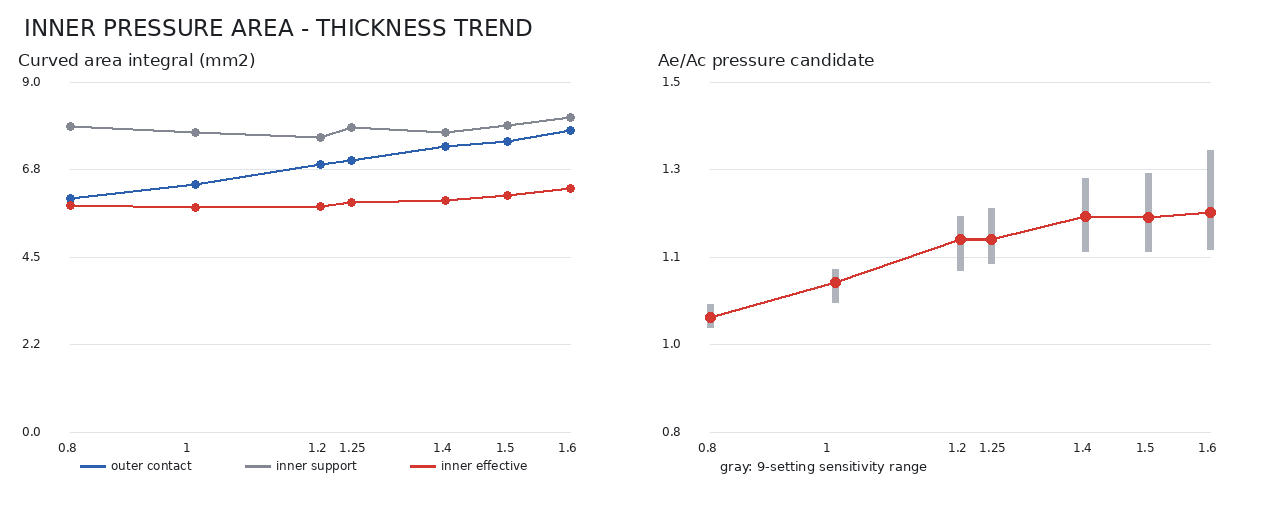
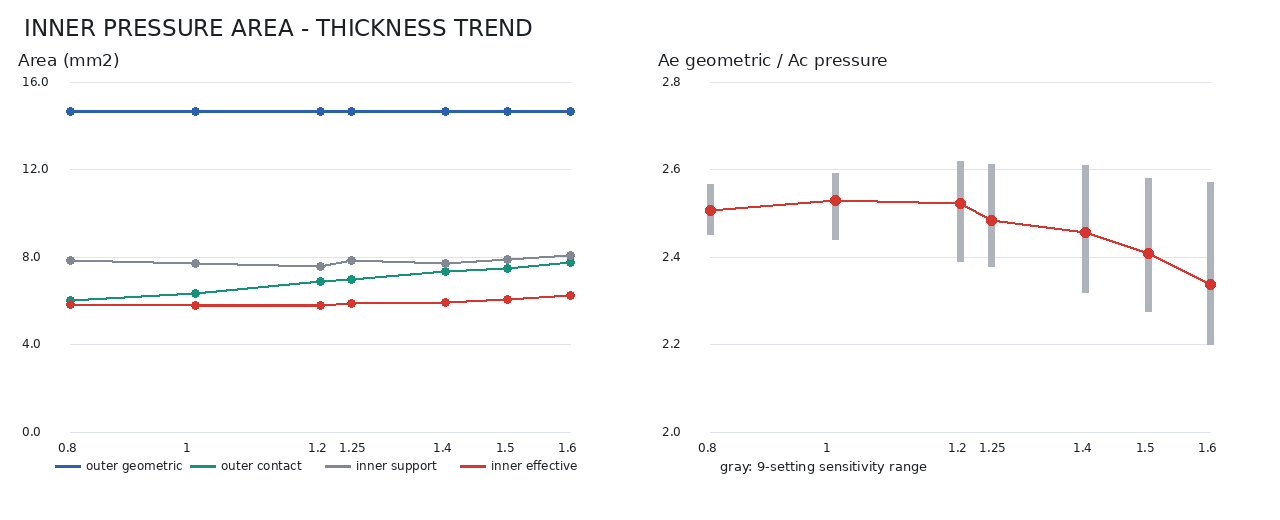
Update hybrid area results

diff --git a/docs/THICKNESS_CALIBRATION.md b/docs/THICKNESS_CALIBRATION.md
@@ -232,7 +232,8 @@ $$
 | `1.60 mm` | `14.657 mm²` | `7.767 mm²` | `8.109 mm²` | `6.268 mm²` | `2.339` |
 
 参考环带`1.1a-1.5a、1.2a-1.6a、1.3a-1.7a`与`2σ、3σ、4σ`的9组组合用于报告
-敏感性；中心质心偏移约`0.03 mm`，低于`0.10 mm`对称性门槛。混合口径使`1.50 mm`
+敏感性：`0.80 mm`的$K_{G/P}$范围为`2.454-2.568`，`1.60 mm`为`2.200-2.572`；
+中心质心偏移约`0.03 mm`，低于`0.10 mm`对称性门槛。混合口径使`1.50 mm`
 结果接近实验约`2.5`的观察，但`0.80-1.25 mm`仍集中在`2.48-2.53`，高于主要实验
 区间`1.5-2.0`，且当前厚度趋势轻微下降。它因此继续标记为`candidate_not_approved`。
 下一轮应检查材料和IOP能否使$A_c^P$在薄眼睑下增大、随厚度增加而减小，不能通过
